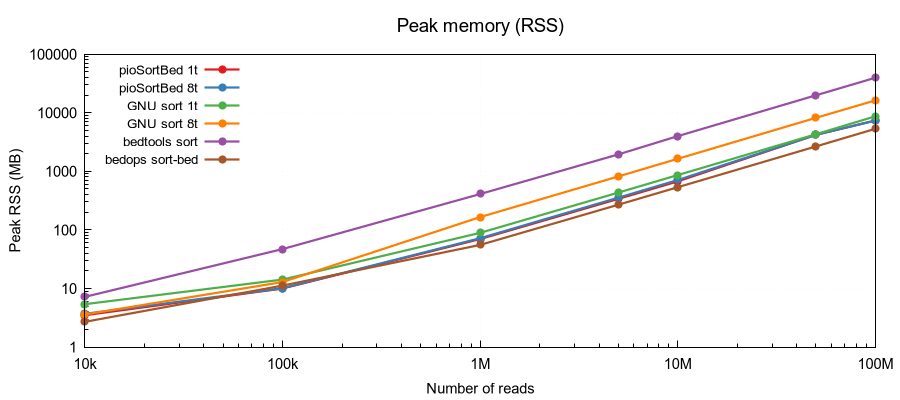
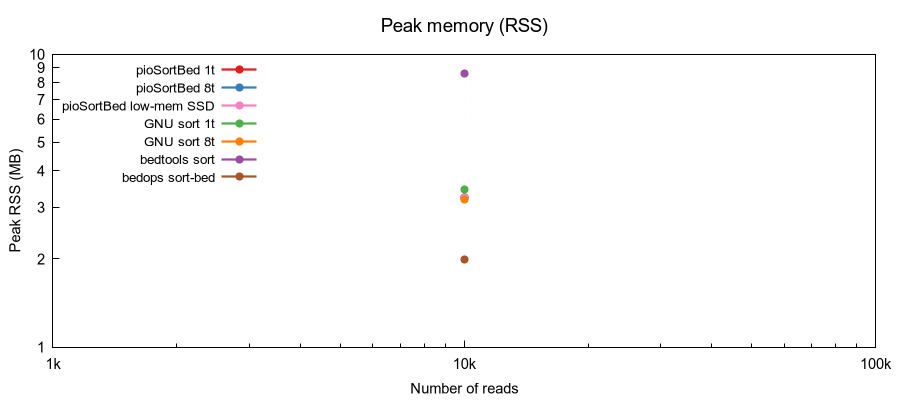
v2.0.0: Add low-memory SSD mode and benchmark integration
- Added --low-mem-ssd mode: two-pass file algorithm that stores line offsets,
  then parses/sorts one chromosome at a time to reduce peak RAM usage
- Kept existing mmap full-memory algorithm as the default fast path
- Added guard: --low-mem-ssd requires file input (not stdin)
- Added pioSortBed low-memory mode to benchmark.sh (table, CSV, verify, speedup,
  and gnuplot series for time+memory charts)
- Updated README options with --low-mem-ssd description
- Bumped CLI version flag to 2.0.0

diff --git a/pioSortBed.cpp b/pioSortBed.cpp
@@ -275,6 +275,255 @@ static int parseRalLine(const char* buf,
 float sumList(seqread* reads, int* readBuff, int foo);
 float sumList2(seqread*, int*, int);
 
+struct lowMemNode
+{
+	size_t off;
+	int next;
+};
+
+struct lowMemRec
+{
+	int beg;
+	int end;
+	char str;
+	float weight;
+	const char* line;
+};
+
+// Low-memory file mode (SSD-friendly):
+// Pass 1: walk mmap once, build per-chromosome linked lists of line offsets.
+// Pass 2: process one chromosome at a time (parse, sort, print), so peak RAM
+// depends on the largest chromosome chunk, not the whole file.
+static int lowMemSortMmap(char* mmapBase, size_t mmapSize,
+                          bool fRal, int fCollapse, char sortMode, int numThreads)
+{
+	time_t tstart, tend;
+	time(&tstart);
+
+	string2chrInfoT chrInfo;
+	pair<string2chrInfoT::iterator,bool> insResult =
+		chrInfo.insert(make_pair(string(""), chrInfoT()));
+	string2chrInfoT::iterator thisChrIt = insResult.first;
+
+	int nodeCap = 1024;
+	int nodeCount = 1; // index 0 reserved as end-of-list sentinel
+	lowMemNode* nodes = (lowMemNode*) malloc(nodeCap * sizeof(lowMemNode));
+	if(!nodes)
+	{
+		cerr << "Error: out of memory allocating low-memory offset table" << endl;
+		return 1;
+	}
+
+	char* mmapCur = mmapBase;
+	char* mmapLim = mmapBase + mmapSize;
+	while(mmapCur < mmapLim)
+	{
+		char* linePtr = mmapCur;
+		char* nl = (char*) memchr(mmapCur, '\n', (size_t)(mmapLim - mmapCur));
+		if(nl)
+		{
+			if(nl > mmapCur && *(nl - 1) == '\r') *(nl - 1) = '\0';
+			*nl = '\0';
+			mmapCur = nl + 1;
+		}
+		else
+		{
+			mmapCur = mmapLim;
+		}
+
+		const char* chrPtr;
+		int chrLen;
+		int beg = 0;
+		int end = 0;
+		int numArgsRead;
+		char strandChar = '+';
+		char weight[chrNameBufSize];
+		weight[0] = '0'; weight[1] = '\0';
+		const char* tailPtr = "";
+		char chrBuf[chrNameBufSize];
+
+		if(fRal)
+		{
+			numArgsRead = parseRalLine(linePtr, chrBuf, chrNameBufSize,
+			                           &beg, &end, weight, chrNameBufSize,
+			                           &strandChar);
+			chrPtr = chrBuf;
+			chrLen = (int)strlen(chrBuf);
+		}
+		else
+		{
+			numArgsRead = parseBedLine3(linePtr, &chrPtr, &chrLen, &beg, &end, &tailPtr);
+		}
+
+		if(numArgsRead < 3)
+		{
+			cerr << "Error in parsing line: " << linePtr << endl
+				<< "Perhaps this line is malformed?" << endl;
+			free(nodes);
+			return 1;
+		}
+		if(beg < 0)
+		{
+			cerr << "Error: negative coordinates in the bed file\n" << linePtr << endl;
+			free(nodes);
+			return 1;
+		}
+
+		if((int)thisChrIt->first.size() != chrLen ||
+		   memcmp(thisChrIt->first.data(), chrPtr, chrLen) != 0)
+		{
+			pair<string2chrInfoT::iterator,bool> ins =
+				chrInfo.insert(make_pair(string(chrPtr, chrLen), chrInfoT()));
+			thisChrIt = ins.first;
+		}
+
+		if(nodeCount == nodeCap)
+		{
+			nodeCap = (int)(nodeCap * 2);
+			lowMemNode* tmp = (lowMemNode*) realloc(nodes, nodeCap * sizeof(lowMemNode));
+			if(!tmp)
+			{
+				cerr << "Error: out of memory growing low-memory offset table" << endl;
+				free(nodes);
+				return 1;
+			}
+			nodes = tmp;
+		}
+
+		nodes[nodeCount].off = (size_t)(linePtr - mmapBase);
+		nodes[nodeCount].next = thisChrIt->second.lastRead;
+		thisChrIt->second.lastRead = nodeCount;
+		nodeCount++;
+	}
+
+	chrInfo.erase("");
+	vector<string> chroms;
+	chroms.reserve(chrInfo.size());
+	for(string2chrInfoT::iterator it = chrInfo.begin(); it != chrInfo.end(); it++)
+		chroms.push_back(it->first);
+	std::sort(chroms.begin(), chroms.end());
+
+	time(&tend);
+	fprintf(stderr, "Reading has taken %d seconds\n", (int)(difftime(tend, tstart)+0.5));
+	cerr << "We have " << nodeCount - 1 << " regions.\n"
+		 << chroms.size() << " chromosomes\nSorting..." << endl;
+	time(&tstart);
+
+	for(size_t ci = 0; ci < chroms.size(); ci++)
+	{
+		string2chrInfoT::iterator cit = chrInfo.find(chroms[ci]);
+		vector<int> nodeIdx;
+		for(int cur = cit->second.lastRead; cur; cur = nodes[cur].next)
+			nodeIdx.push_back(cur);
+
+		vector<lowMemRec> recs;
+		recs.reserve(nodeIdx.size());
+		for(size_t i = 0; i < nodeIdx.size(); i++)
+		{
+			const char* linePtr = mmapBase + nodes[nodeIdx[i]].off;
+			int beg = 0, end = 0;
+			char strandChar = '+';
+			char weight[chrNameBufSize];
+			weight[0] = '0'; weight[1] = '\0';
+			const char* chrPtr;
+			int chrLen;
+			int numArgsRead;
+			const char* tailPtr = "";
+			char chrBuf[chrNameBufSize];
+
+			if(fRal)
+			{
+				numArgsRead = parseRalLine(linePtr, chrBuf, chrNameBufSize,
+				                           &beg, &end, weight, chrNameBufSize,
+				                           &strandChar);
+			}
+			else if(fCollapse || sortMode == '5')
+			{
+				numArgsRead = parseBedLineFull(linePtr, &chrPtr, &chrLen,
+				                              &beg, &end, weight, chrNameBufSize,
+				                              &strandChar, &tailPtr);
+			}
+			else
+			{
+				numArgsRead = parseBedLine3(linePtr, &chrPtr, &chrLen, &beg, &end, &tailPtr);
+			}
+			if(numArgsRead < 3)
+			{
+				cerr << "Error in parsing line: " << linePtr << endl
+					 << "Perhaps this line is malformed?" << endl;
+				free(nodes);
+				return 1;
+			}
+
+			lowMemRec r;
+			r.beg = beg;
+			r.end = end;
+			r.str = strandChar;
+			r.line = linePtr;
+			r.weight = 0.0f;
+			if(fCollapse)
+			{
+				if(!sscanf(weight, "%f", &r.weight))
+				{
+					cerr << "Malformed weight " << weight << endl;
+					free(nodes);
+					return 1;
+				}
+			}
+			recs.push_back(r);
+		}
+
+		auto cmp = [sortMode](const lowMemRec& a, const lowMemRec& b) {
+			if(sortMode == 'b')
+			{
+				if(a.beg != b.beg) return a.beg < b.beg;
+				return a.end < b.end;
+			}
+			if(sortMode == '5')
+			{
+				int pa = (a.str == '-') ? a.end : a.beg;
+				int pb = (b.str == '-') ? b.end : b.beg;
+				return pa < pb;
+			}
+			return a.beg < b.beg;
+		};
+
+		if(numThreads == 1)
+			std::sort(recs.begin(), recs.end(), cmp);
+		else
+			__gnu_parallel::sort(recs.begin(), recs.end(), cmp);
+
+		if(fCollapse)
+		{
+			size_t i = 0;
+			while(i < recs.size())
+			{
+				int pos = recs[i].beg;
+				float sum = 0.0f;
+				while(i < recs.size() && recs[i].beg == pos)
+				{
+					sum += recs[i].weight;
+					i++;
+				}
+				printf("%s\t%d\t%d\t.\t%g\t+\n", chroms[ci].c_str(), pos, pos+1, sum);
+			}
+		}
+		else
+		{
+			for(size_t i = 0; i < recs.size(); i++)
+			{
+				fputs_unlocked(recs[i].line, stdout);
+				fputc_unlocked('\n', stdout);
+			}
+		}
+	}
+
+	free(nodes);
+	time(&tend);
+	fprintf(stderr, "Sorting has taken %d seconds\n", (int)(difftime(tend, tstart)+0.5));
+	return 0;
+}
+
 // Fast integer-to-buffer writer. Returns number of chars written.
 static inline int writeUInt(char* buf, int val)
 {
@@ -480,12 +729,13 @@ int main(int argc, char *argv[])
 		"  Chromosome length limit: " + to_string(chrLenLimit/1000000) + "Mbp\n"
 		"  Chromosome/contig number limit: unlimited\n"
 		"  Read number limit: unlimited (but will be kept in the memory)\n"};
-	app.set_version_flag("-V,--version", "1.2.1");
+	app.set_version_flag("-V,--version", "2.0.0");
 
 	string inputFile;
 	char sortMode = 's';
 	int fCollapse = 0;
 	int fRal = 0;
+	int lowMemSSD = 0;
 	int bucketCutoff = defaultBucketCutoff;
 	int numThreads = 0;
 
@@ -500,6 +750,9 @@ int main(int argc, char *argv[])
 	app.add_flag("--collapse", fCollapse,
 		"collapse BEDWEIGHT by summing weights of the reads and truncate the coordinates, "
 		"set strand to \"+\", id to \".\". Makes no sense for --sort=b");
+	app.add_flag("--low-mem-ssd", lowMemSSD,
+		"low-memory two-pass file mode (SSD-friendly): keeps line offsets in RAM and "
+		"sorts one chromosome at a time; slower than default but uses less peak RAM");
 	app.add_option("--bucket-cutoff", bucketCutoff,
 		"use bucket sort for files with at least this many reads; "
 		"smaller files use std::sort (0 = always bucket sort)")
@@ -582,6 +835,16 @@ int main(int argc, char *argv[])
 				if(arenaInit < 4096) arenaInit = 4096;
 				arena = new Arena(arenaInit, 64UL * 1024 * 1024);
 			}
+		}
+
+		if(lowMemSSD)
+		{
+			if(!useMmap)
+			{
+				cerr << "Error: --low-mem-ssd requires file input (not stdin)" << endl;
+				return 1;
+			}
+			return lowMemSortMmap(mmapBase, mmapSize, fRal, fCollapse, sortMode, numThreads);
 		}
 
 		// allocate the guessed amount of memory:

diff --git a/README.md b/README.md
@@ -43,6 +43,7 @@ pioSortBed [options] -   # read from standard input
 | `-s 5` / `--sort 5` | Sort by 5' end (respects strand: col 6) |
 | `-r` / `--ral` | Input is in RAL format instead of BED |
 | `--collapse` | Collapse overlapping regions, summing weights |
+| `--low-mem-ssd` | Low-memory two-pass file mode (SSD-friendly). Slower than default, but lower peak RAM. Requires file input (not stdin). |
 | `--bucket-cutoff N` | Use bucket sort for files with ≥N reads (default: 50M; 0 = always bucket sort) |
 | `-t N` / `--threads N` | Number of threads for classic sort (0 = all cores; 1 = single-threaded) |
 | `-h` / `--help` | Show help message |
@@ -60,7 +61,7 @@ All data is loaded into memory. Expect approximately **2× the input file size**
 
 ## Benchmark
 
-Sorting random BED6 files (10 chromosomes, coordinates 0–249 Mbp). Wall time and peak RSS measured with GNU time. All tools verified to produce identical sort order.
+Sorting random BED6 files (10 chromosomes, coordinates 0–249 Mbp). Wall time and peak RSS measured with GNU time. All tools verified to produce identical sort order. Compared against [bedtools](https://github.com/arq5x/bedtools2) and [bedops](https://github.com/bedops/bedops).
 
 ### Wall time
 
